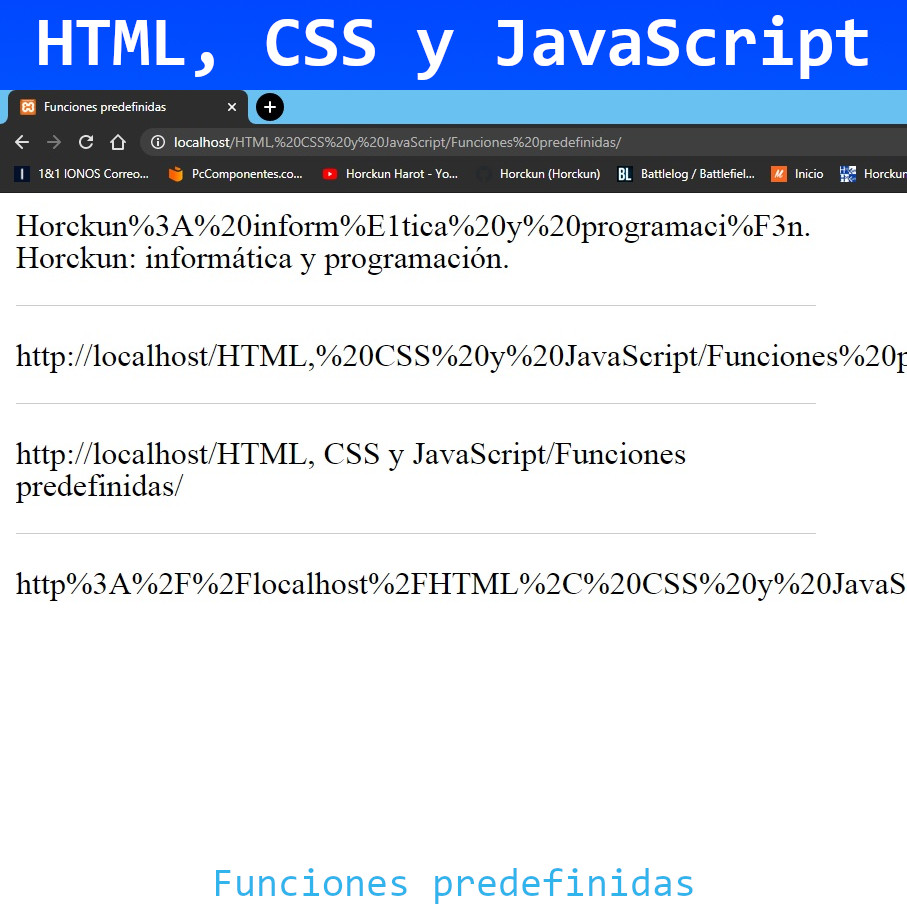
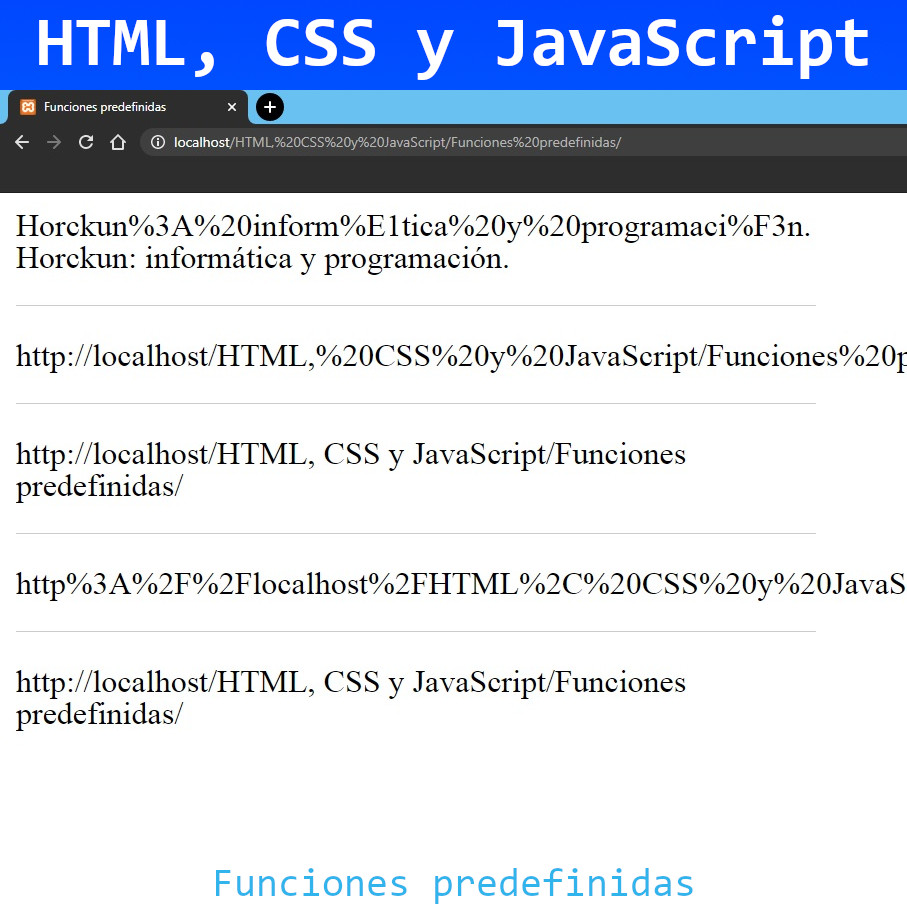
Funciones predefinidas
Funciones predefinidas en JavaScript

diff --git a/HTML, CSS y JavaScript/Funciones predefinidas/js/funciones.js b/HTML, CSS y JavaScript/Funciones predefinidas/js/funciones.js
@@ -1,25 +1,22 @@
-// DECLARAR VARIABLE
 var evaluar = escape("Horckun: informática y programación.");
-// MOSTRAR EN PANTALLA
 document.write(evaluar);
 document.write("<br>");
 var evaluar = unescape("Horckun%3A%20inform%E1tica%20y%20programaci%F3n.");
 document.write(evaluar);
-//----------------------
 document.write("<hr>");
-// DECLARAR VARIABLE
 var evaluar = encodeURI("http://localhost/HTML, CSS y JavaScript/Funciones predefinidas/");
-// MOSTRAR EN PANTALLA
 document.write(evaluar);
-//----------------------
 document.write("<hr>");
-// DECLARAR VARIABLE
 var evaluar = decodeURI("http://localhost/HTML,%20CSS%20y%20JavaScript/Funciones%20predefinidas/");
-// MOSTRAR EN PANTALLA
 document.write(evaluar);
-//----------------------
 document.write("<hr>");
 // DECLARAR VARIABLE
 var evaluar = encodeURIComponent("http://localhost/HTML, CSS y JavaScript/Funciones predefinidas/");
+// MOSTRAR EN PANTALLA
+document.write(evaluar);
+//----------------------
+document.write("<hr>");
+// DECLARAR VARIABLE
+var evaluar = decodeURIComponent("http%3A%2F%2Flocalhost%2FHTML%2C%20CSS%20y%20JavaScript%2FFunciones%20predefinidas%2F");
 // MOSTRAR EN PANTALLA
 document.write(evaluar);
